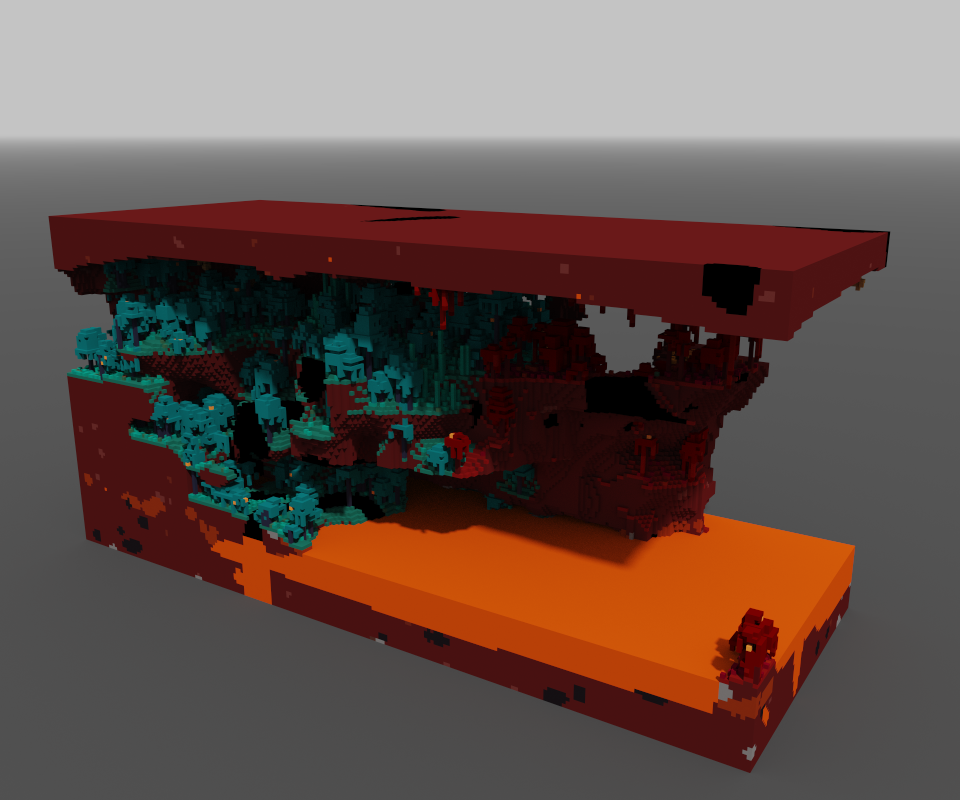
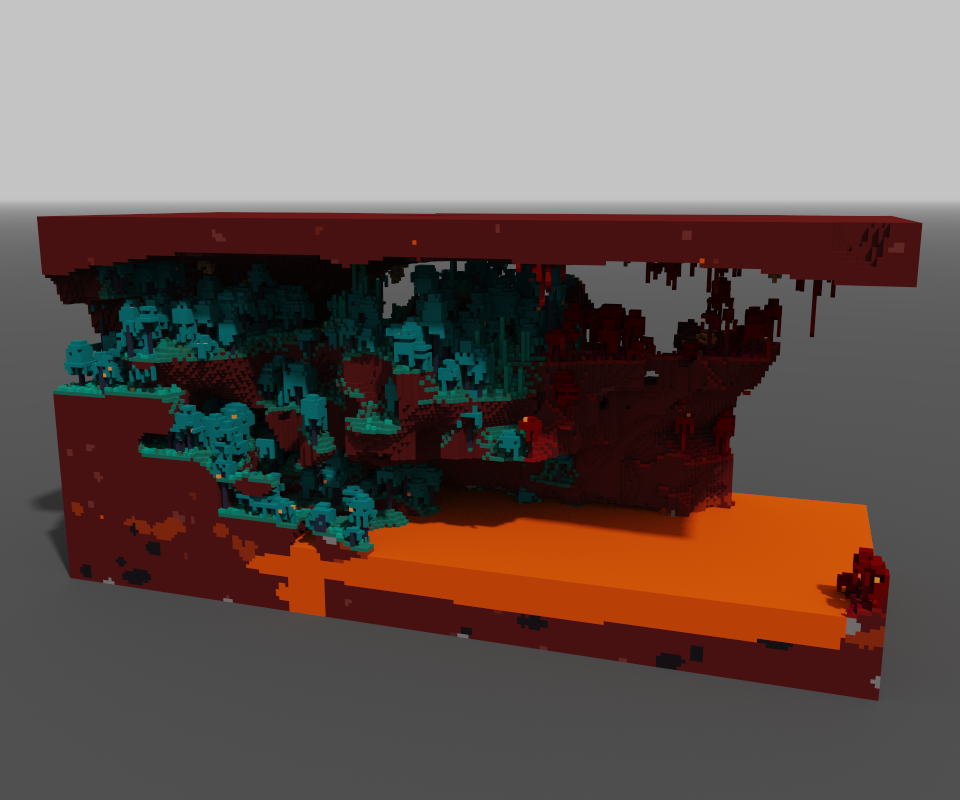
Fix cave/void air being rendered

diff --git a/schem2vox.py b/schem2vox.py
@@ -74,7 +74,7 @@ for y in range(min(256, height)):
         for x in range(min(256, width)):
             block = data[x + z * width + y * width * length]
             name = idxMap[block]
-            if name == "minecraft:air":
+            if name == "minecraft:air" or name == "minecraft:cave_air" or name == "minecraft:void_air":
                 continue
             idx = paletteMap[name]
             indexes.append(bytearray((min(256, width) - x - 1, z, y, idx)))
